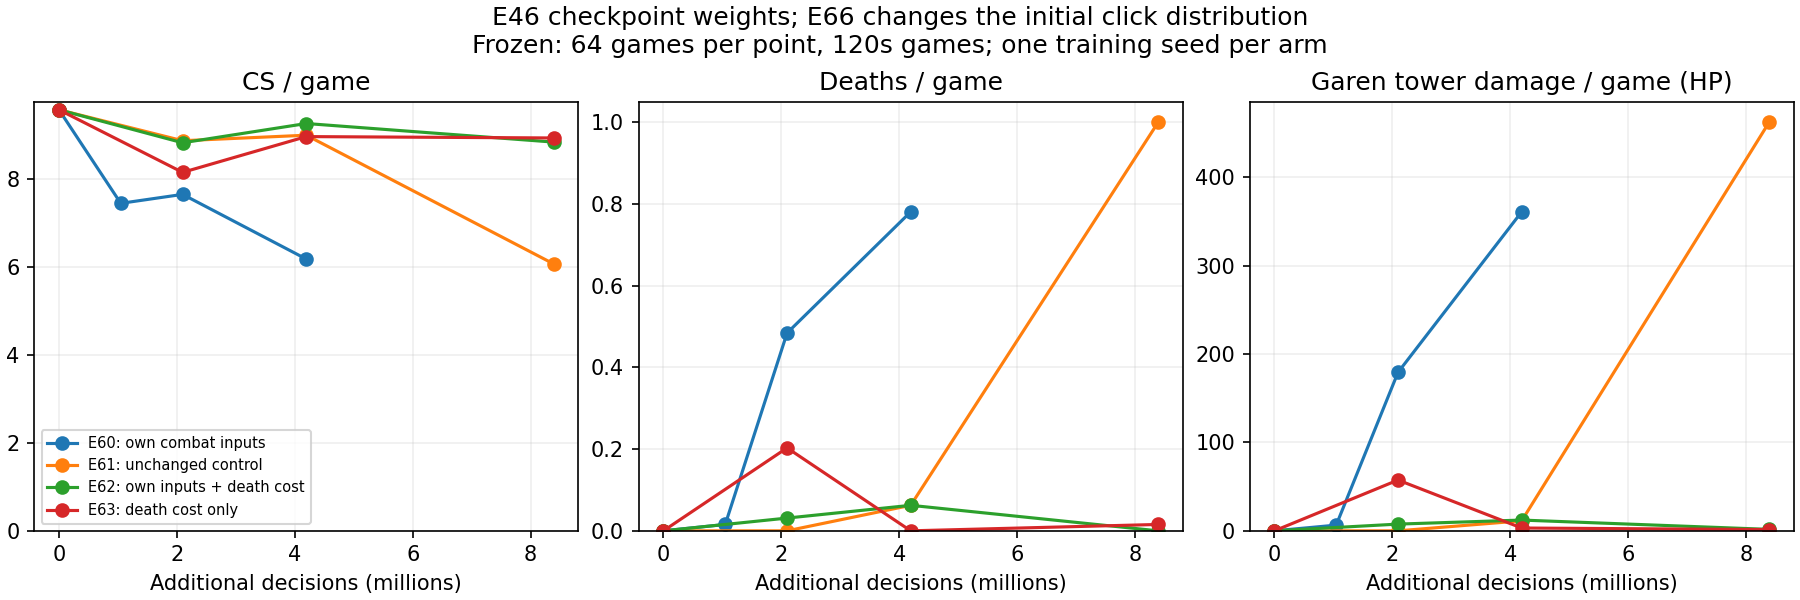
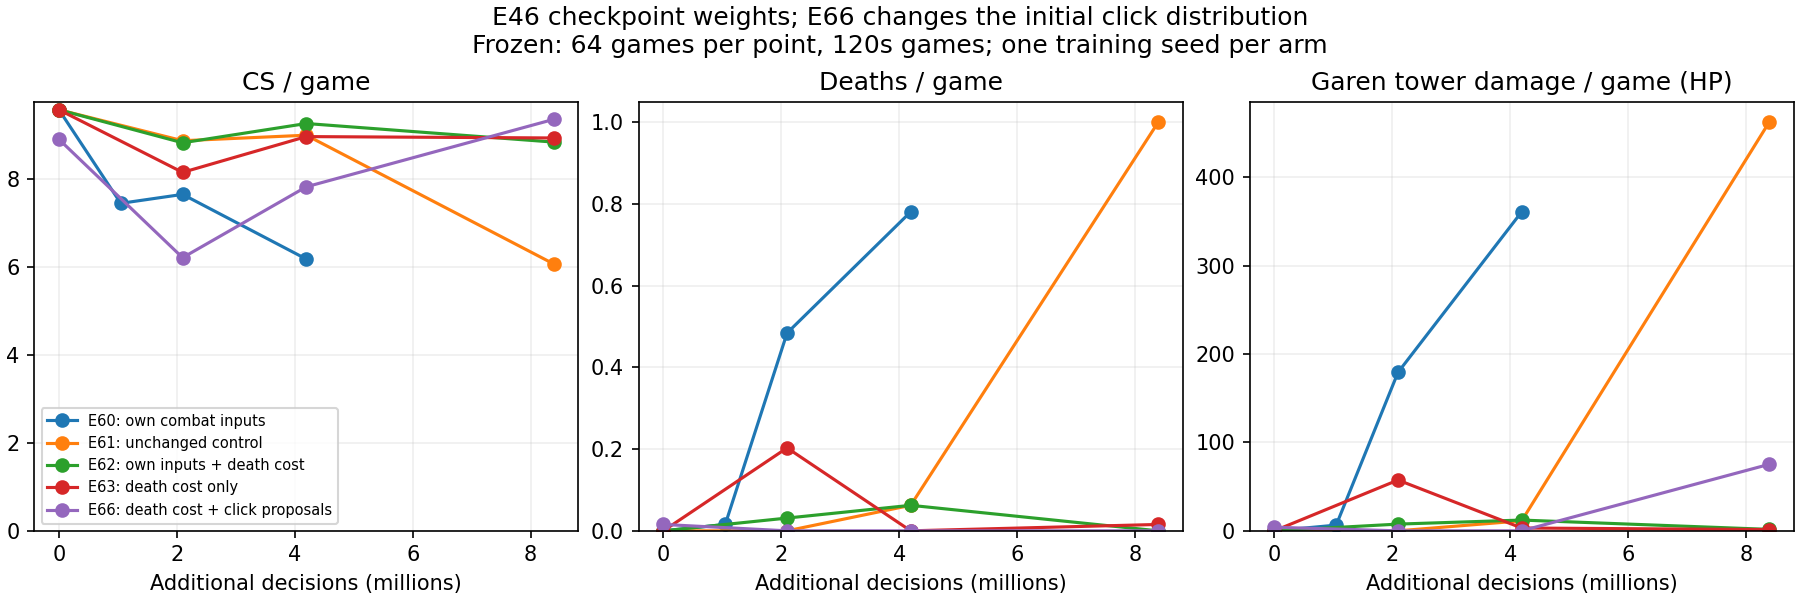
Record E66 final and start E65 reward diagnostic

diff --git a/STATUS.md b/STATUS.md
@@ -1,4 +1,4 @@
-# STATUS — 2026-10-01 09:42 UTC
+# STATUS — 2026-10-01 10:10 UTC
 
 Current task: diagnose and improve JAX AFK farming, using frozen 120-second
 trials. No demonstrated solution yet. Dani authorizes bounded reversible
@@ -8,33 +8,25 @@ History and evidence: `docs/EXPERIMENTS.md`, `docs/JAX_FIDELITY_LEDGER.md`.
 
 ## Running
 
-**E66_afk_click_proposals — Slurm1831**, started09:25UTC, 1-hour allocation.
-Only this thread's active training job; other users/tasks' jobs are untouched.
+**E65_afk_cs_focus — Slurm1832**, started10:09UTC,1-hour allocation.
+Launcher session89112 is attached; startup canaries/180s watch pending.
+No bridge armed yet: arm and verify after healthy-start watch.
 E46 weights, fresh Adam, original v3 inputs, LR1e-4,4epochs,gamma.99,lambda.95;
-XP0, HP100gold/fullbar, personal tower900gold/fullbar, death300gold.
-New learned visible-entity screen-cell proposals mixed with ordinary ground
-clicks, initialized10percent. No simulator, visibility, or action-protocol change.
-512updates/8.389M decisions; frozen64-game evaluations at0/128/256/512.
+XP0, HP-loss reward0, tower reward0, death300gold. Same objective asE63 except
+removing the two secondary HP/tower terms together.512updates/8.389M decisions;
+frozen64-game evaluations at0/128/256/512. Success>=10.5625CS/<=.05deaths.
+This is an easier diagnostic, not a substitute for the intended full objective.
+Approximate completion10:45–10:50UTC; log `/mnt/nfs/shared/E65_afk_cs_focus-1832.out`.
+Future frozen evaluations now report reward components with an accounting check.
 
-15 standard GPU canaries and4 proposal tests passed, including real GRU
-collector/learner likelihood and finite PPO update. Required180s startup watch
-passed. Fullsize compilation and endpoint-before-reset canary passed.
-Frozen u0: **8.890625 CS, .015625 deaths, 4.044495 personal towerHP**;
-new initial distribution differs from old E46 despite retaining old weights.
-Training active; first27updates median3.6155s, versus E63 median3.3476s.
-Frozen u128: **6.203125 CS,0 deaths,0 towerHP**; u256: **7.8125 CS,
-0 deaths,0 towerHP**, both below its own initial. u256 reward5.36288 exceeds
-initial4.98031 despite lower CS; total reward is not the success metric.
-Training continues through the predeclared512-update budget. At update141
-all losses finite; no targeting win established.
-These are training diagnostics, not performance results.
-
-Run: `/mnt/nfs/checkpoints/lanerl-jax/E66_afk_click_proposals/vec-s0-20261001-093416-d26024a8/`.
-Log: `/mnt/nfs/shared/E66_afk_click_proposals-1831.out`.
-Bridge: **lanerl-event-1831.service**, verified active/result updating;
-expiry **2026-10-01T11:34:21.708261+00:00**.
-Artifacts: `/mnt/nfs/shared/slurm-events/1831/`.
-Approximate completion10:10–10:20UTC, subject to measured runtime.
+E66 Slurm1831 COMPLETED/0:0 in43m32s. Final512update frozen score:
+**9.34375CS,0deaths,75.222872personal towerHP,reward8.102879**.
+Own initial8.890625CS/.015625deaths/4.044495towerHP/reward4.98031;
+originalE46baseline9.5625CS. Some safe tower damage learned, but farming gate
+failed; no extension and no solution claim. Checkpointstep8388608 finite/latest
+identical;512metrics/nonfinite0; medianupdate3.62076s (~8percent slower thanE63).
+Run `/mnt/nfs/checkpoints/lanerl-jax/E66_afk_click_proposals/vec-s0-20261001-093416-d26024a8/`.
+Watcher1831 stopped after active review; inactive and registry clean.
 
 ## Latest evidence and next decisions
 
@@ -52,20 +44,15 @@ Approximate completion10:10–10:20UTC, subject to measured runtime.
   farm better. E59 selected caster interventions had small/mixed returns.
   LEARN-AFK-19 direct-click probability analysis motivates E66 but does not
   establish a root cause or a66x gameplay improvement.
-- E66 success requires CS>=max(10.5625,its own initialCS+1), deaths<=.05,
-  then an independent training/evaluation seed repeat. Do not select a winner
-  from training CS or total reward alone. If promising, replicate before claiming
-  a solution; inspect normal-speed gameplay for farming/tower behavior.
-- **E65_afk_cs_focus queued Slurm1832** behind1831; dry-run passed, launcher
-  session89112 awaiting startup canaries/watch. No bridge yet; arm after healthy
-  watch. Same E46/v3/death300/PPO asE63, HP/tower rewards0;512updates8.389M.
-  Tests farming learnability without secondary reward tradeoffs. Success>=10.5625CS
-  and<=.05deaths; not a substitute for the intended farming-plus-tower objective.
-  Estimated35–40min after start. E64 longer discount horizon remains prepared,
-  dry-run validated, **NOT submitted**. E67 training-phase staggering is also
-  prepared/dry-run passed, NOT submitted; GPU warmup/likelihood canary pending.
-  It discards shortened warmup episodes before learning and preserves full120s
-  training/evaluation games; LEARN-AFK-20 records evidence and limits.
+- E66 did not pass its predeclared farming threshold. Retain the opt-in code
+  and checkpoints as evidence; do not describe higher total reward as a CS fix.
+- E65 now tests farming learnability without secondary reward tradeoffs. If it
+  improves, independently validate and restore the intended objective before
+  calling the full problem solved.
+- E64 longer discount horizon and E67 training-phase staggering are prepared,
+  dry-run passed, **NOT submitted**. E67 GPU warmup/likelihood canary pending;
+  it discards shortened warmup episodes before learning and preserves full120s
+  training/evaluation games. LEARN-AFK-20 records evidence and limits.
 
 Older E40 mirror training remains interrupted at5795updates; checkpoint
 `/mnt/nfs/checkpoints/lanerl-jax/E40_tower_wave_extended/vec-s0-20260930-150246-c731fd96/ckpt_189890560.msgpack`

diff --git a/docs/EXPERIMENTS.md b/docs/EXPERIMENTS.md
@@ -9,8 +9,8 @@ CS (changing weights) is labelled `train`; diagnostic scores are not transfer re
 |---|---|---|---|---|---|---|---|
 | `E60_afk_own_action` |10-01| JAX AFK PPO | Own combat state inputs, zero-weight migration |E46/freshAdam,4epochs|256updates4.194M| Slurm1827 complete23m29s; final6.1719CS/.78125deaths/361towerHP; reward9.852 versus6.329initial; farming gate failed | Compare E57@128/E61@256, original9.56CS |
 | `E67_afk_staggered` |10-01| JAX AFK PPO | Unsynchronized training phases, full-game evaluation |E46/v3/freshAdam, E63 rewards|512updates8.389M +180224untrained warmup decisions| Prepared/dry-run passed; GPU canary pending; NOT submitted | Tests batch temporal diversity; requires original frozen baseline and independent replication |
-| `E66_afk_click_proposals` |10-01| JAX AFK PPO | Learned observed-entity screen-cell proposals |E46/freshAdam,v3,4epochs|512updates8.389M| Slurm1831 running;19GPUtests/180s watch passed;bridge armed | Requires gain over both old and new initial policy; physical clicks unchanged |
-| `E65_afk_cs_focus` |10-01| JAX AFK PPO diagnostic | Farming-only positive objective; death300 retained |E46/freshAdam,v3,4epochs|512updates8.389M| Slurm1832 queued behind1831; canary/watch pending | Separate farming learnability from HP/tower reward tradeoffs; not final task |
+| `E66_afk_click_proposals` |10-01| JAX AFK PPO | Learned observed-entity screen-cell proposals |E46/freshAdam,v3,4epochs|512updates8.389M| Slurm1831 COMPLETED/0:0,43m32s;final9.34375CS/0deaths/75.22towerHP;farming gate failed | Requires gain over both old and new initial policy; physical clicks unchanged |
+| `E65_afk_cs_focus` |10-01| JAX AFK PPO diagnostic | Farming-only positive objective; death300 retained |E46/freshAdam,v3,4epochs|512updates8.389M| Slurm1832 running startup canaries10:09UTC; watch pending | Separate farming learnability from HP/tower reward tradeoffs; not final task |
 | `E64_afk_long_horizon` |10-01| JAX AFK PPO | Gamma.999 with corrected death reward/v3 |E46/freshAdam,4epochs|512updates8.389M| Prepared, conditional; not submitted | One-factor discount comparison against E63 |
 | `E63_afk_death_control` |10-01| JAX AFK PPO | Death300gold with original v3 inputs |E46/freshAdam,4epochs|512updates8.389M| Slurm1830 COMPLETED/0:0,38m03s; final8.921875CS/.015625deaths; bridge cleaned | Match E61 reward-only change and E62 input comparison |
 | `E62_afk_own_death_cost` |10-01| JAX AFK PPO | Explicit300gold death cost with own-action inputs |E46/freshAdam,4epochs|512updates8.389M| Slurm1829 complete37m27s; final8.8281CS/0deaths/1.64towerHP; no farming gain | Test risky tower reward mismatch against E60 and original |

diff --git a/docs/JAX_FIDELITY_LEDGER.md b/docs/JAX_FIDELITY_LEDGER.md
@@ -679,3 +679,5 @@ History lives in `docs/EXPERIMENTS.md` and `docs/JAX_FIDELITY_LEDGER.md`.
 | LEARN-AFK-20 prepared | E67 opt-in training staggering; discard all shortened first episodes under fixed policy before optimization, retain real carries/RNG/states, require all deadlines full and learner step unchanged. Every frozen eval explicitly disables staggering. Existing objective/E46/v3/PPO asE63.512updates8.389M plus11warmup rollouts180224untrained envdecisions. Syntax/dry-run passed; dedicated realGRU warmup/likelihood GPUcanary pending. | Prepared, not submitted. Requires sameinitial9.5625CS, final>=10.5625CS/<=.05deaths and independentseed repeat. This tests temporal batch diversity without changing the learned or evaluated horizon. No current run altered; E65 queued first. |
 
 | LEARN-AFK-18 reward reporting | Future waveworker frozen episodes/summaries now include accumulated reward_terms, bounded at each first terminal; assert component sum matches total within FP tolerance. Existing simulation and policy sampling unchanged. | E65 and later runs can distinguish gold, death, health, tower and positioning contributions directly. Does not retroactively add components to E66 or earlier evaluations. Syntax check passed; first live full-evaluation accounting gate pending. |
+
+| LEARN-AFK-19 final | E66 Slurm1831 COMPLETED/0:0,43m32s,512updates8.389M. Frozen64game final9.34375CS/0deaths/75.222872towerHP/reward8.102879 versusowninitial8.890625/.015625/4.044495/4.980310 andoriginalE469.5625CS. Step8388608 finite/latest identical,512metrics/nonfinite0, sourceSHAverified, proposalflagTrue; finalSHA3429b9c7b569e76401975c26ddc951073cc3bd2f8bbc03caae03488092bbc4de. Medianupdate3.62076s (~8percent slowerthanE63); last32train mean proposal masswhenavailable.02677. | Some safe tower damage learned and owninitial CS partly improved, but missespredeclared farming gate anddoesnot beat original. No extension orsolutionclaim. Watcher stoppedafteractive review; inactive/registryclean. E65 starts next. |
